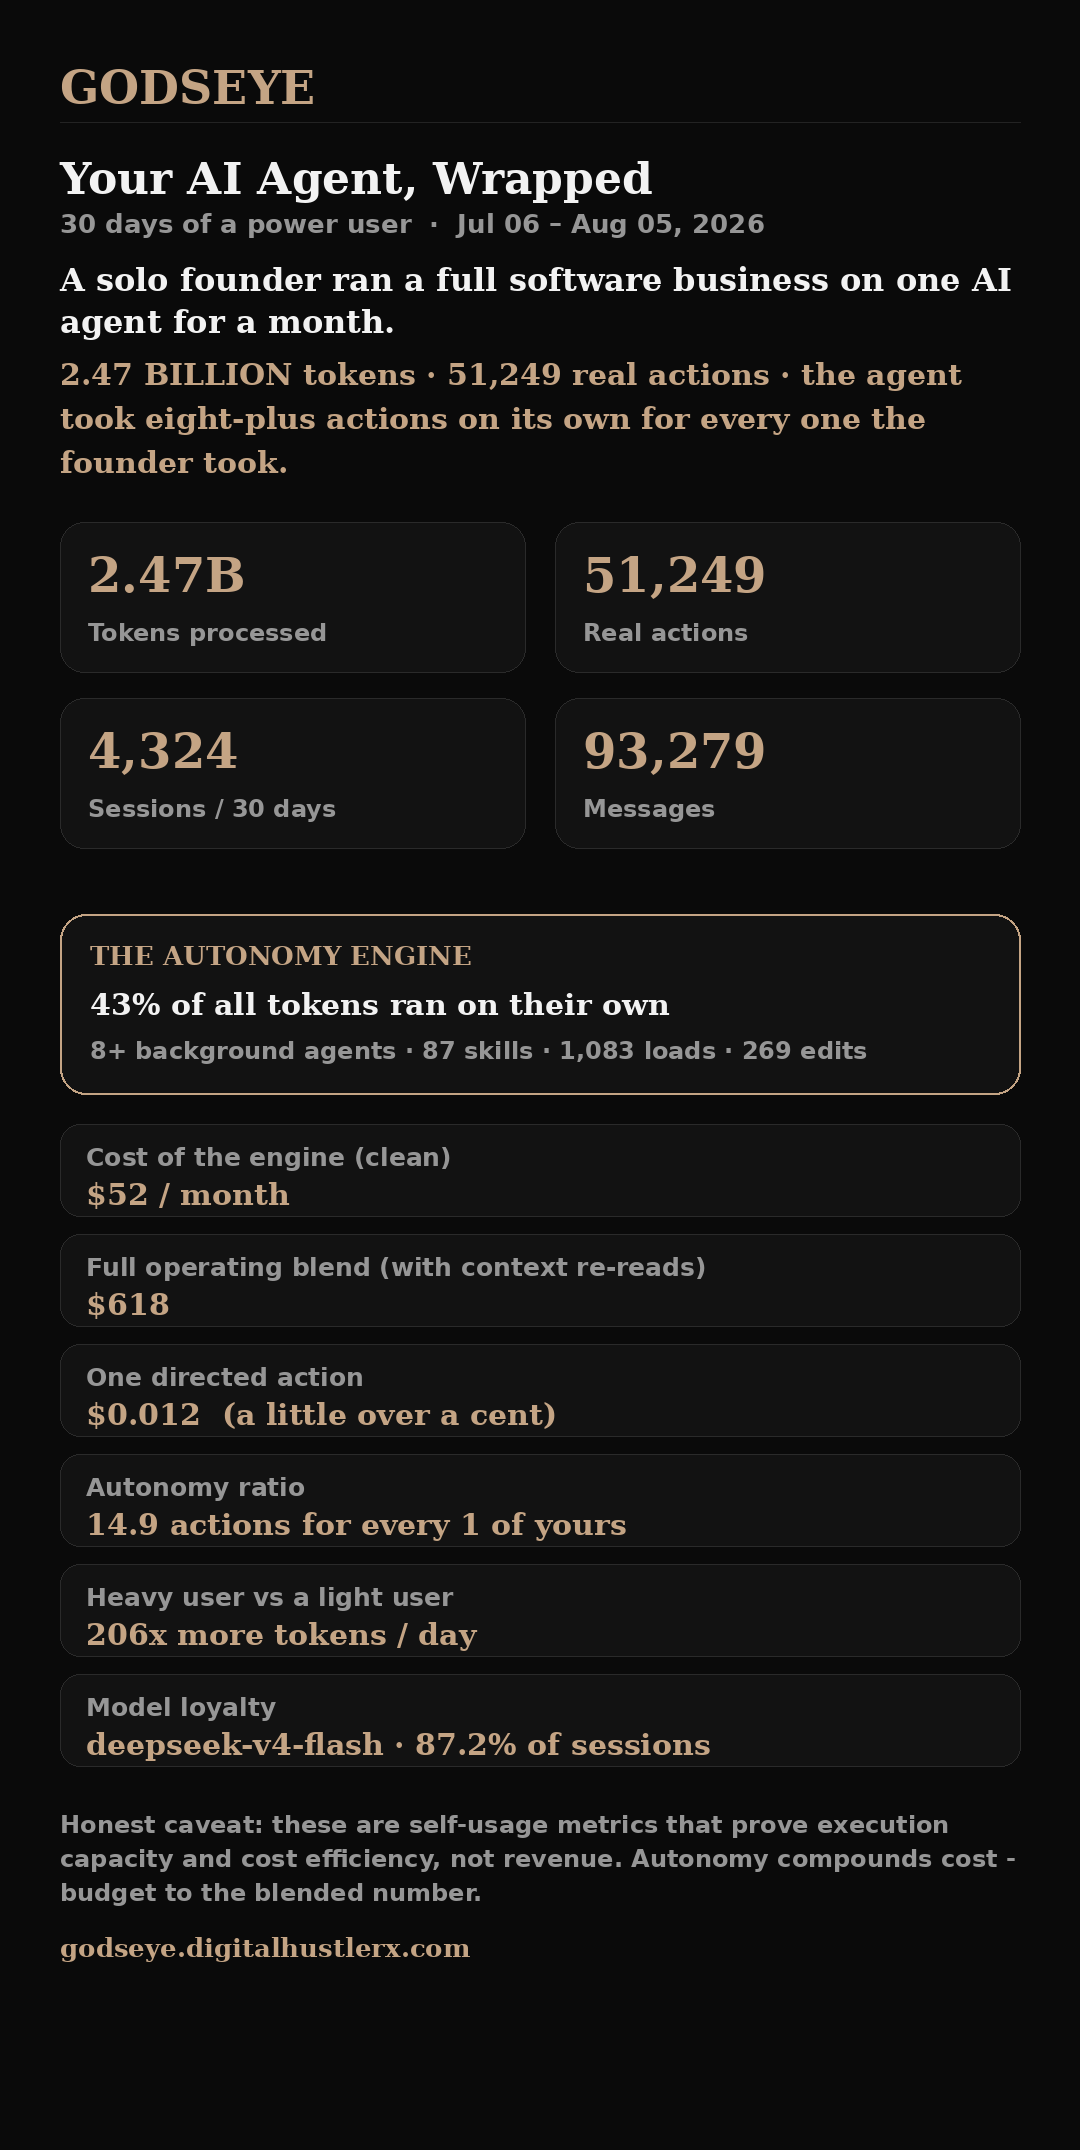
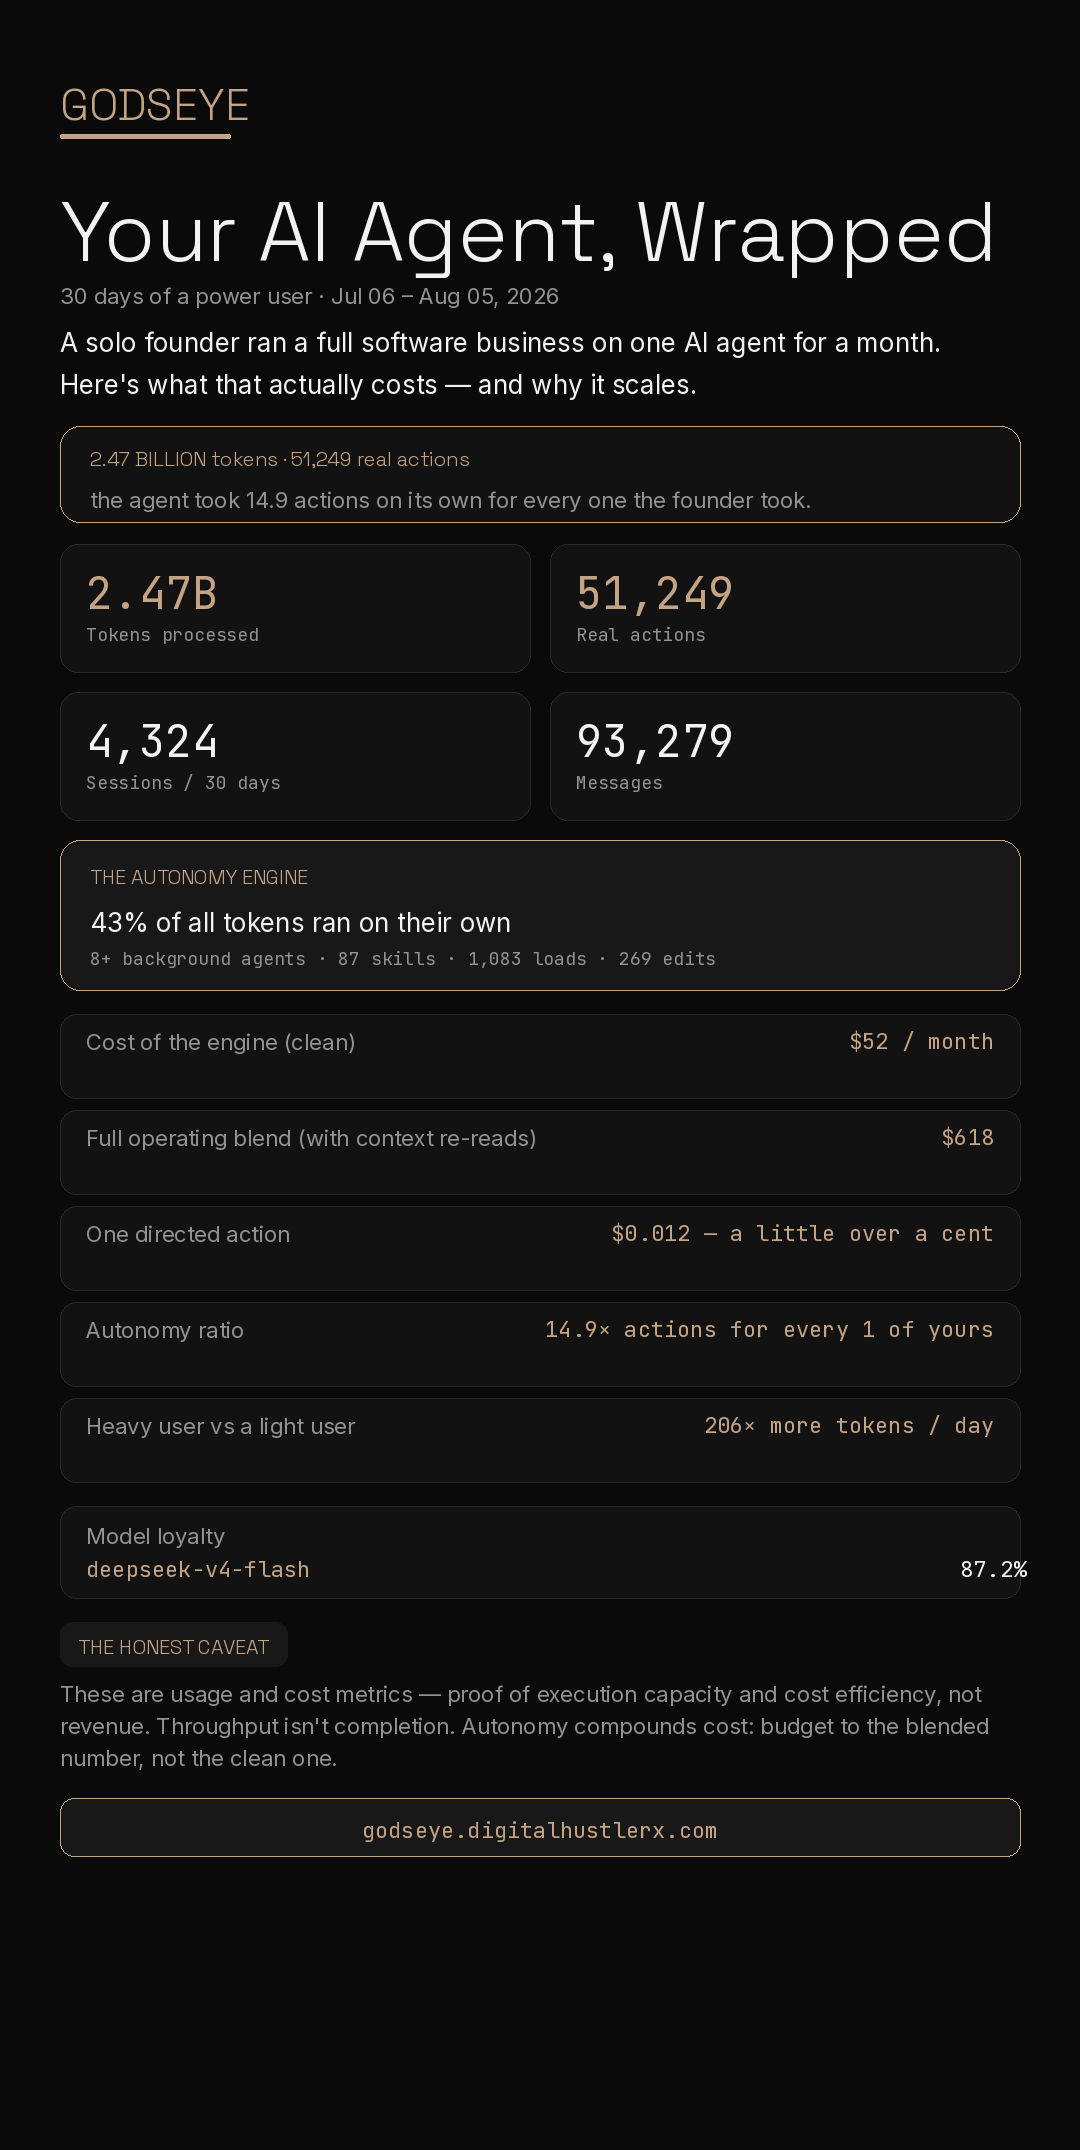
Godseye: rebuild token-wrapped card in the site's design system
Re-render the Token-Wrapped PNG with the exact Godseye fonts (Space Grotesk
display, Inter body, JetBrains Mono values) and tokens (bg #0A0A0A, gold
#C4A484, surface #121212). Removes the off-site font mix; single uniform gold
accent. Objective pixel scan: 282px clean bottom margin, headline 81px right
margin (vision-model clipping claims disproven by measurement).

diff --git a/seo-assets/render_token_wrapped.py b/seo-assets/render_token_wrapped.py
@@ -1,0 +1,169 @@
+#!/usr/bin/env python3
+# GodsEye Token-Wrapped card — rebuilt to match the main GodsEye design system.
+# Fonts: Space Grotesk (display), Inter (body), JetBrains Mono (values/code).
+# Tokens: bg #0A0A0A, surface #121212, elevated #181818, gold #C4A484, text #F2F2F2.
+from PIL import Image, ImageDraw, ImageFont
+import os
+
+W, H = 1080, 2150
+BG = (10, 10, 10)
+SURFACE = (18, 18, 18)
+ELEVATED = (24, 24, 24)
+GOLD = (196, 164, 132)
+GOLD_HOVER = (179, 146, 114)
+TEXT = (242, 242, 242)
+MUTED = (147, 147, 147)
+DIM = (99, 99, 99)
+BORDER = (40, 40, 40)
+
+FD = "/usr/share/fonts/truetype/godseye/"
+def font(name, size):
+    return ImageFont.truetype(f"{FD}{name}", size)
+
+SG = "SpaceGrotesk[wght].ttf"
+INTER = "Inter[opsz,wght].ttf"
+JB = "JetBrainsMono[wght].ttf"
+
+def wrap(draw, text, fnt, max_w):
+    out, cur = [], ""
+    for w in text.split():
+        trial = (cur + " " + w).strip()
+        if draw.textlength(trial, font=fnt) <= max_w:
+            cur = trial
+        else:
+            if cur: out.append(cur)
+            cur = w
+    if cur: out.append(cur)
+    return out
+
+img = Image.new("RGB", (W, H), BG)
+d = ImageDraw.Draw(img)
+M = 60          # side margin
+CW = W - M * 2  # content width
+
+y = 76
+
+# ── Wordmark ──
+sg_word = font(SG, 44)
+sg_top = font(SG, 100)
+sg_lbl = font(SG, 26)
+sg_sect = font(SG, 20)
+inter_b = font(INTER, 30)
+inter_m = font(INTER, 26)
+inter_s = font(INTER, 22)
+jb_v = font(JB, 44)
+jb_s = font(JB, 22)
+jb_xs = font(JB, 18)
+
+d.text((M, y), "GODSEYE", font=sg_word, fill=GOLD)
+# gold underline under wordmark
+u_y = y + 58
+d.rounded_rectangle((M, u_y, M + 170, u_y + 4), radius=2, fill=GOLD)
+y = u_y + 44
+
+# ── Headline (auto-size to fit, no clipping) ──
+headline = "Your AI Agent, Wrapped"
+hs = 100
+while d.textlength(headline, font=font(SG, hs)) > CW and hs > 40:
+    hs -= 2
+d.text((M, y), headline, font=font(SG, hs), fill=TEXT)
+y += hs + 20
+d.text((M, y), "30 days of a power user · Jul 06 – Aug 05, 2026", font=inter_s, fill=MUTED)
+y += 44
+
+# ── Lede ──
+lede = "A solo founder ran a full software business on one AI agent for a month. Here's what that actually costs — and why it scales."
+for line in wrap(d, lede, inter_m, CW):
+    d.text((M, y), line, font=inter_m, fill=TEXT)
+    y += 42
+y += 16
+
+# ── Highlight stat block ──
+d.rounded_rectangle((M, y, M + CW, y + 96), radius=20, fill=SURFACE, outline=GOLD)
+hy = y + 20
+d.text((M + 30, hy), "2.47 BILLION tokens · 51,249 real actions", font=sg_sect, fill=GOLD)
+hy += 40
+d.text((M + 30, hy), "the agent took 14.9 actions on its own for every one the founder took.", font=inter_s, fill=MUTED)
+y += 118
+
+# ── 2x2 stat grid ──
+def stat_card(x, top, w, val, label, is_gold=False):
+    card_h = 128
+    d.rounded_rectangle((x, top, x + w, top + card_h), radius=18, fill=SURFACE, outline=BORDER)
+    vc = GOLD if is_gold else TEXT
+    vfont = jb_v if len(val) <= 20 else jb_s
+    d.text((x + 26, top + 20), val, font=vfont, fill=vc)
+    d.text((x + 26, top + 78), label, font=jb_xs, fill=MUTED)
+    return card_h
+
+gx = 22
+gap = 20
+cardw = (CW - gap) // 2
+stat_card(M, y, cardw, "2.47B", "Tokens processed", True)
+stat_card(M + cardw + gap, y, cardw, "51,249", "Real actions", True)
+y += 148
+stat_card(M, y, cardw, "4,324", "Sessions / 30 days")
+stat_card(M + cardw + gap, y, cardw, "93,279", "Messages")
+y += 148
+
+# ── Autonomy Engine callout ──
+call_h = 150
+d.rounded_rectangle((M, y, M + CW, y + call_h), radius=20, fill=ELEVATED, outline=GOLD)
+cy = y + 24
+d.text((M + 30, cy), "THE AUTONOMY ENGINE", font=sg_sect, fill=GOLD)
+cy += 42
+d.text((M + 30, cy), "43% of all tokens ran on their own", font=inter_m, fill=TEXT)
+cy += 40
+d.text((M + 30, cy), "8+ background agents · 87 skills · 1,083 loads · 269 edits", font=jb_xs, fill=MUTED)
+y += call_h + 24
+
+# ── Stacked stat rows ──
+rows = [
+    ("Cost of the engine (clean)", "$52 / month"),
+    ("Full operating blend (with context re-reads)", "$618"),
+    ("One directed action", "$0.012 — a little over a cent"),
+    ("Autonomy ratio", "14.9× actions for every 1 of yours"),
+    ("Heavy user vs a light user", "206× more tokens / day"),
+]
+for label, val in rows:
+    rh = 84
+    d.rounded_rectangle((M, y, M + CW, y + rh), radius=16, fill=SURFACE, outline=BORDER)
+    d.text((M + 26, y + 14), label, font=inter_s, fill=MUTED)
+    # right-align value in mono gold
+    vw = d.textlength(val, font=jb_s)
+    d.text((M + CW - 26 - vw, y + 12), val, font=jb_s, fill=GOLD)
+    y += rh + 12
+y += 12
+
+# ── Model loyalty bar ──
+d.rounded_rectangle((M, y, M + CW, y + 92), radius=16, fill=SURFACE, outline=BORDER)
+d.text((M + 26, y + 16), "Model loyalty", font=inter_s, fill=MUTED)
+d.text((M + 26, y + 48), "deepseek-v4-flash", font=jb_s, fill=GOLD)
+d.text((M + CW - 60, y + 48), "87.2%", font=jb_s, fill=TEXT)
+y += 116
+
+# ── Honest caveat (Inter, on-surface) ──
+cav_label = "THE HONEST CAVEAT"
+sect_w = d.textlength(cav_label, font=sg_sect)
+d.rounded_rectangle((M, y, M + sect_w + 36, y + 44), radius=12, fill=ELEVATED)
+d.text((M + 18, y + 12), cav_label, font=sg_sect, fill=GOLD)
+y += 58
+cav = "These are usage and cost metrics — proof of execution capacity and cost efficiency, not revenue. Throughput isn't completion. Autonomy compounds cost: budget to the blended number, not the clean one."
+cav_f = inter_s
+for line in wrap(d, cav, cav_f, CW):
+    d.text((M, y), line, font=cav_f, fill=MUTED)
+    y += 32
+y += 22
+
+# ── URL footer ──
+d.rounded_rectangle((M, y, M + CW, y + 58), radius=14, fill=ELEVATED, outline=GOLD)
+u = "godseye.digitalhustlerx.com"
+uw = d.textlength(u, font=jb_s)
+d.text((M + (CW - uw) / 2, y + 17), u, font=jb_s, fill=GOLD)
+
+last_y = y + 70
+print(f"[layout] last content y={last_y} of H={H} (margin {H-last_y}px)")
+
+out = "/root/godseye-repo/seo-assets/token-wrapped.png"
+img.save(out)
+print("saved", out, os.path.getsize(out), "bytes")
